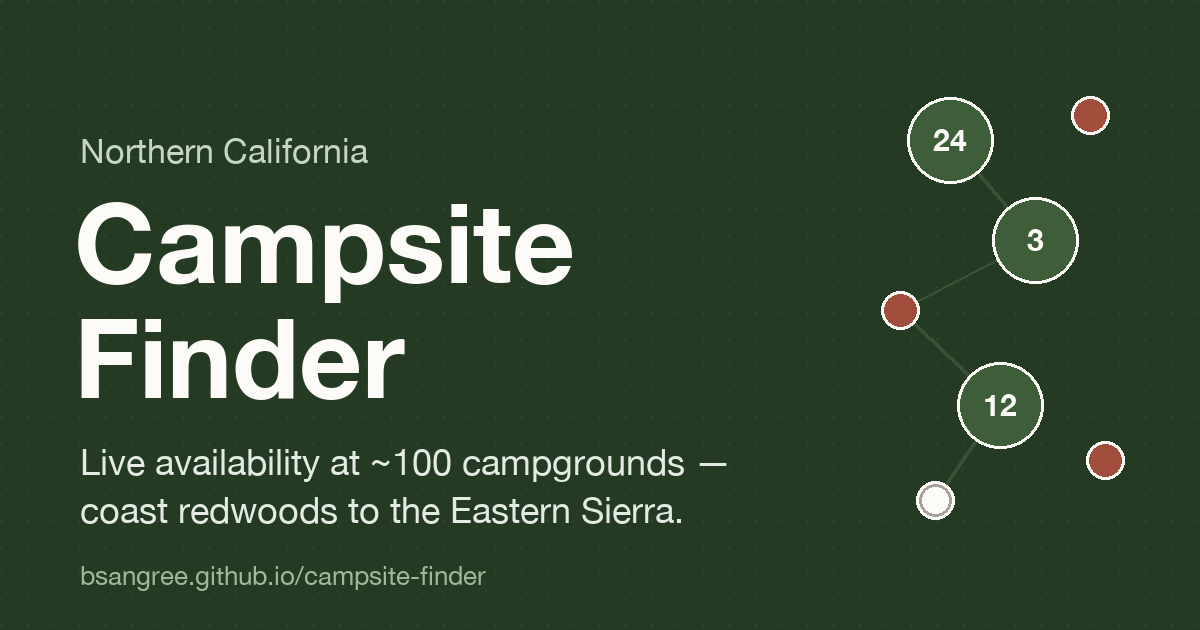
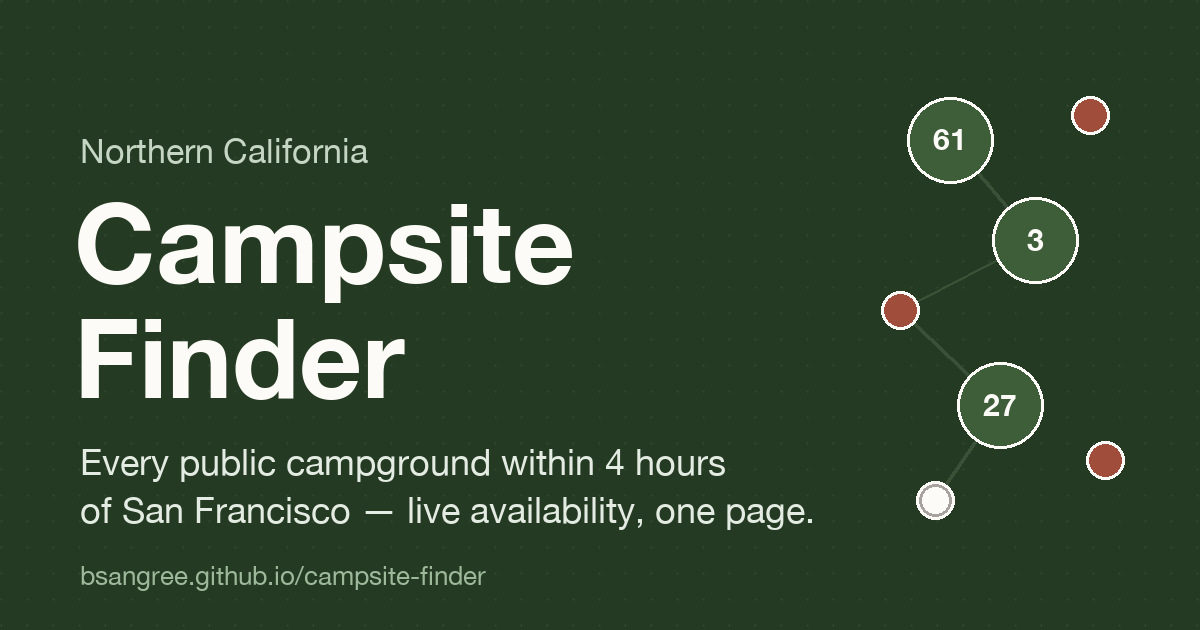
4-hour-radius completion sweep: 121 campgrounds, claim goes live
+23 parks closing every known gap inside ~4h of SF: Clear Lake, Folsom,
Oroville, Indian Grinding Rock, Colusa, Westport-Union, Tahoe SRA (RC);
Arroyo Seco, Tuttletown, Fashoda, Wrights Lake, Silver Lake East, Salmon
Creek, Kaspian, Bass Lake Forks + Lupine (rec.gov); Doran, Westside,
Stillwater Cove, Gualala Point, Coyote Lake, Laguna Seca, Lake Solano
(county, check-site). Three new county systems in SYSTEMS; 'bay' region
relabeled Bay Area & Wine Country.

Hero/OG/README/social card now carry the claim — with an honest scope
note (excludes private, utility-district, group-only, dispersed).
Recorder tracks 105 live parks.

diff --git a/index.html b/index.html
@@ -4,9 +4,9 @@
   <meta charset="utf-8" />
   <meta name="viewport" content="width=device-width, initial-scale=1" />
   <title>Bay Area Campsite Finder</title>
-  <meta name="description" content="Live availability at nearly 100 Northern California campgrounds — coast redwoods, Tahoe, Yosemite, the Eastern Sierra, Big Sur. Pick a weekend, see what's open, book it." />
+  <meta name="description" content="Every public campground within ~4 hours of San Francisco — 120+ camps from the redwood coast to Tahoe, Yosemite, and Big Sur. Live availability, one page." />
   <meta property="og:title" content="Bay Area Campsite Finder" />
-  <meta property="og:description" content="Live availability at nearly 100 Northern California campgrounds — coast redwoods, Tahoe, Yosemite, the Eastern Sierra, Big Sur. Pick a weekend, see what's open, book it." />
+  <meta property="og:description" content="Every public campground within ~4 hours of San Francisco — 120+ camps from the redwood coast to Tahoe, Yosemite, and Big Sur. Live availability, one page." />
   <meta property="og:image" content="https://bsangree.github.io/campsite-finder/social-card.png" />
   <meta property="og:url" content="https://bsangree.github.io/campsite-finder/" />
   <meta property="og:type" content="website" />
@@ -56,7 +56,7 @@
     <div class="sm:max-w-[620px]">
       <div class="text-forest-200 text-[13px] mb-0.5">Bay Area</div>
       <h1 class="text-[28px] sm:text-5xl font-semibold tracking-tight whitespace-nowrap">Campsite Finder</h1>
-      <p class="hidden sm:block text-forest-100 mt-2 max-w-xl">Live availability across nearly 100 campgrounds — coast redwoods to the Eastern Sierra. Pick a weekend, see what's open, book it.</p>
+      <p class="hidden sm:block text-forest-100 mt-2 max-w-xl">Every public campground within ~4 hours of San Francisco — plus the far North Coast, Shasta, and the Eastern Sierra. Live availability, one page.</p>
     </div>
     <div id="headerStats" class="shrink-0 text-center sm:mr-10"></div>
   </div>
@@ -123,7 +123,7 @@
           <div class="text-[13px] font-medium text-stone-500 mb-2">Region</div>
           <select id="regionSel" class="w-full h-11 bg-white border border-stone-900/10 rounded-lg px-3 text-sm">
             <option value="all">All regions</option>
-            <option value="bay">Bay Area</option>
+            <option value="bay">Bay Area &amp; Wine Country</option>
             <option value="northcoast">North Coast</option>
             <option value="shasta">Shasta &amp; Lassen</option>
             <option value="tahoe">Tahoe</option>
@@ -221,6 +221,9 @@ const SYSTEMS = {
   ebparks:    { label: "East Bay Parks" },
   scc_parks:  { label: "Santa Clara County Parks" },
   smc_parks:  { label: "San Mateo County Parks" },
+  sonoma_co:  { label: "Sonoma County Parks" },
+  monterey_co:{ label: "Monterey County Parks" },
+  solano_co:  { label: "Solano County Parks" },
 };
 
 const ENV_LABELS = {
@@ -786,6 +789,125 @@ const PARKS = [
     desc: "The classic dune camp — monarch butterflies in winter, wide sand year-round.",
     url: "https://www.reservecalifornia.com/park/691",
     lat: 35.1064, lng: -120.6271 },
+
+
+  // --- 4-hour-radius completion sweep (2026-08-01) ---
+  { id: "clear-lake", name: "Clear Lake SP", system: "reserve_ca", region: "bay",
+    drive: 135, env: ["lake", "oak_woodland"], dogs: true, rv: true, access: "drive_in", sites: 147,
+    desc: "California's oldest lake — tule shores, bass water, Mt. Konocti above.",
+    url: "https://www.reservecalifornia.com/park/628",
+    lat: 39.0111, lng: -122.8141 },
+  { id: "lake-solano", name: "Lake Solano Park", system: "solano_co", region: "bay",
+    drive: 70, env: ["lake", "oak_woodland"], dogs: true, rv: true, access: "drive_in", sites: 87,
+    desc: "Putah Creek's calm stretch below the dam — otters, resident peacocks, easy paddling.",
+    url: "https://www.solanocounty.com/depts/rm/countypark/",
+    lat: 38.488, lng: -121.996 },
+  { id: "doran-beach", name: "Doran Regional Park", system: "sonoma_co", region: "bay",
+    drive: 75, env: ["coast"], dogs: true, rv: true, access: "drive_in", sites: 128,
+    desc: "Two miles of flat sand between Bodega Bay and the harbor — the family classic.",
+    url: "https://parks.sonomacounty.ca.gov/visit/find-a-park/doran-regional-park",
+    lat: 38.3129, lng: -123.029 },
+  { id: "westside-regional", name: "Westside Regional Park", system: "sonoma_co", region: "bay",
+    drive: 75, env: ["coast"], dogs: true, rv: true, access: "drive_in", sites: 47,
+    desc: "Bodega Bay's calm-water side — crabbing docks and kayak launches.",
+    url: "https://parks.sonomacounty.ca.gov/visit/find-a-park/westside-regional-park",
+    lat: 38.318, lng: -123.055 },
+  { id: "stillwater-cove", name: "Stillwater Cove Regional Park", system: "sonoma_co", region: "bay",
+    drive: 115, env: ["coast"], dogs: true, rv: true, access: "drive_in", sites: 23,
+    desc: "A pocket cove north of Jenner — quiet sites above the kelp.",
+    url: "https://parks.sonomacounty.ca.gov/visit/find-a-park/stillwater-cove-regional-park",
+    lat: 38.5466, lng: -123.2964 },
+  { id: "coyote-lake", name: "Coyote Lake – Harvey Bear", system: "scc_parks", region: "bay",
+    drive: 75, env: ["lake", "oak_woodland"], dogs: true, rv: true, access: "drive_in", sites: 74,
+    desc: "Reservoir camp in the oak hills east of Gilroy — wintering bald eagles.",
+    url: "https://parks.santaclaracounty.gov/locations/coyote-lake-harvey-bear-ranch-county-park",
+    lat: 37.1219, lng: -121.5464 },
+  { id: "gualala-point", name: "Gualala Point Regional Park", system: "sonoma_co", region: "northcoast",
+    drive: 140, env: ["coast", "redwoods"], dogs: true, rv: true, access: "drive_in", sites: 25,
+    desc: "Redwood flat along the Gualala River, a footbridge from the beach.",
+    url: "https://parks.sonomacounty.ca.gov/visit/find-a-park/gualala-point-regional-park",
+    lat: 38.7657, lng: -123.5232 },
+  { id: "westport-union", name: "Westport-Union Landing SB", system: "reserve_ca", region: "northcoast",
+    drive: 215, env: ["coast"], dogs: true, rv: true, access: "drive_in", sites: 86,
+    desc: "Blufftop sites over a wild, empty stretch of Mendocino coast.",
+    url: "https://www.reservecalifornia.com/park/1235",
+    lat: 39.6761, lng: -123.7905 },
+  { id: "colusa", name: "Colusa-Sacramento River SRA", system: "reserve_ca", region: "shasta",
+    drive: 120, env: ["oak_woodland"], dogs: true, rv: true, access: "drive_in", sites: 20,
+    desc: "Shady riverbank camp on the Sacramento — canoe launches and salmon runs.",
+    url: "https://www.reservecalifornia.com/park/632",
+    lat: 39.2182, lng: -122.0165 },
+  { id: "lake-oroville", name: "Lake Oroville SRA — Loafer Creek", system: "reserve_ca", region: "shasta",
+    drive: 165, env: ["lake", "oak_woodland"], dogs: true, rv: true, access: "drive_in", sites: 137,
+    desc: "Above the state's tallest dam — houseboat water and bald eagles.",
+    url: "https://www.reservecalifornia.com/park/662",
+    lat: 39.5343, lng: -121.467 },
+  { id: "tahoe-sra", name: "Tahoe SRA (Tahoe City)", system: "reserve_ca", region: "tahoe",
+    drive: 205, env: ["alpine", "lake"], dogs: true, rv: true, access: "drive_in", sites: 28,
+    desc: "In-town camp — walk to the lake, coffee, and the Truckee River outlet.",
+    url: "https://www.reservecalifornia.com/park/728",
+    lat: 39.1762, lng: -120.135 },
+  { id: "kaspian", name: "Kaspian (West Shore)", system: "rec_gov", region: "tahoe",
+    drive: 210, env: ["alpine", "lake"], dogs: true, rv: false, access: "walk_in", sites: 9,
+    desc: "Tiny West Shore camp under the pines — Blackwood Canyon at your back.",
+    url: "https://www.recreation.gov/camping/campgrounds/232875",
+    lat: 39.1137, lng: -120.1587 },
+  { id: "fashoda", name: "Fashoda (Union Valley)", system: "rec_gov", region: "tahoe",
+    drive: 195, env: ["alpine", "lake"], dogs: true, rv: true, access: "drive_in", sites: 30,
+    desc: "Crystal Basin tent camp on Union Valley Reservoir's granite shore.",
+    url: "https://www.recreation.gov/camping/campgrounds/234135",
+    lat: 38.8682, lng: -120.3975 },
+  { id: "wrights-lake", name: "Wrights Lake", system: "rec_gov", region: "tahoe",
+    drive: 210, env: ["alpine", "lake"], dogs: true, rv: true, access: "drive_in", sites: 65,
+    desc: "High granite lake at 7,000 feet — canoe water, Desolation trailheads.",
+    url: "https://www.recreation.gov/camping/campgrounds/231954",
+    lat: 38.8494, lng: -120.2311 },
+  { id: "silver-lake-east", name: "Silver Lake East (Hwy 88)", system: "rec_gov", region: "tahoe",
+    drive: 210, env: ["alpine", "lake"], dogs: true, rv: true, access: "drive_in", sites: 48,
+    desc: "Carson Pass blue gem below Thunder Mountain — kayaks, islands, granite.",
+    url: "https://www.recreation.gov/camping/campgrounds/232263",
+    lat: 38.675, lng: -119.8875 },
+  { id: "salmon-creek", name: "Salmon Creek (Lakes Basin)", system: "rec_gov", region: "tahoe",
+    drive: 225, env: ["alpine", "lake"], dogs: true, rv: true, access: "drive_in", sites: 29,
+    desc: "Sierra Buttes country — a dozen alpine lakes within a morning's walk.",
+    url: "https://www.recreation.gov/camping/campgrounds/234540",
+    lat: 39.6235, lng: -120.6124 },
+  { id: "folsom-lake", name: "Folsom Lake SRA", system: "reserve_ca", region: "yosemite",
+    drive: 125, env: ["lake", "oak_woodland"], dogs: true, rv: true, access: "drive_in", sites: 169,
+    desc: "Beals Point and Peninsula camps on the foothill reservoir.",
+    url: "https://www.reservecalifornia.com/park/643",
+    lat: 38.7089, lng: -121.1704 },
+  { id: "indian-grinding-rock", name: "Indian Grinding Rock SHP", system: "reserve_ca", region: "yosemite",
+    drive: 150, env: ["oak_woodland"], dogs: true, rv: true, access: "drive_in", sites: 22,
+    desc: "Chaw'se — 1,185 bedrock mortars and a reconstructed Miwok roundhouse.",
+    url: "https://www.reservecalifornia.com/park/659",
+    lat: 38.4256, lng: -120.64 },
+  { id: "tuttletown", name: "Tuttletown (New Melones)", system: "rec_gov", region: "yosemite",
+    drive: 165, env: ["lake", "oak_woodland"], dogs: true, rv: true, access: "drive_in", sites: 163,
+    desc: "New Melones' quieter shore — paddling coves and oak shade.",
+    url: "https://www.recreation.gov/camping/campgrounds/234072",
+    lat: 37.9839, lng: -120.5081 },
+  { id: "arroyo-seco", name: "Arroyo Seco (Los Padres)", system: "rec_gov", region: "central",
+    drive: 165, env: ["oak_woodland", "chaparral"], dogs: true, rv: true, access: "drive_in", sites: 39,
+    desc: "Gorge-mouth camp on the wild Arroyo Seco — deep green swimming holes.",
+    url: "https://www.recreation.gov/camping/campgrounds/231958",
+    lat: 36.2397, lng: -121.4786 },
+  { id: "laguna-seca", name: "Laguna Seca Recreation Area", system: "monterey_co", region: "central",
+    drive: 130, env: ["oak_woodland", "grassland"], dogs: true, rv: true, access: "drive_in", sites: 98,
+    desc: "Oak-hill camp ringing the famous raceway — quiet except race weekends.",
+    url: "https://www.countyofmonterey.gov/government/departments-i-z/parks",
+    lat: 36.5841, lng: -121.753 },
+
+  { id: "forks-bass-lake", name: "Forks (Bass Lake)", system: "rec_gov", region: "yosemite",
+    drive: 230, env: ["lake"], dogs: true, rv: true, access: "drive_in", sites: 26,
+    desc: "Bass Lake's classic camp near the Forks — warm-water swimming, Yosemite 30 min up the hill.",
+    url: "https://www.recreation.gov/camping/campgrounds/232878",
+    lat: 37.3127, lng: -119.57 },
+  { id: "lupine-bass-lake", name: "Lupine (Bass Lake)", system: "rec_gov", region: "yosemite",
+    drive: 230, env: ["lake"], dogs: true, rv: true, access: "drive_in", sites: 51,
+    desc: "Shoreline pines on Bass Lake's south side — paddleboard water all summer.",
+    url: "https://www.recreation.gov/camping/campgrounds/232802",
+    lat: 37.3095, lng: -119.5472 },
 
 ];
 

diff --git a/scripts/poll.py b/scripts/poll.py
@@ -79,6 +79,22 @@ PARKS = [
     ("morro-bay", "rc", 680),
     ("san-simeon", "rc", 713),
     ("pismo", "rc", 691),
+    # --- 4h-radius sweep ---
+    ("clear-lake", "rc", 628),
+    ("westport-union", "rc", 1235),
+    ("colusa", "rc", 632),
+    ("lake-oroville", "rc", 662),
+    ("tahoe-sra", "rc", 728),
+    ("kaspian", "rg", 232875),
+    ("fashoda", "rg", 234135),
+    ("wrights-lake", "rg", 231954),
+    ("silver-lake-east", "rg", 232263),
+    ("salmon-creek", "rg", 234540),
+    ("folsom-lake", "rc", 643),
+    ("indian-grinding-rock", "rc", 659),
+    ("tuttletown", "rg", 234072),
+    ("arroyo-seco", "rg", 231958),,
+    ("forks-bass-lake", "rg", 232878), ("lupine-bass-lake", "rg", 232802)
 ]
 
 def http_json(url, payload=None, timeout=15):

diff --git a/README.md b/README.md
@@ -4,11 +4,18 @@
 
 ![Bay Area Campsite Finder](social-card.png)
 
-One page that answers "where can I camp this weekend?" — live availability across
-nearly 100 Northern California campgrounds, from the coast redwoods to Tahoe, Yosemite,
-the Eastern Sierra, and Big Sur — in the one place the official sites don't offer:
-side by side. Filter by region, drive time, environment; watch the hard ones (Whitney
-Portal, Yosemite Valley) and get a push notification when they open.
+One page that answers "where can I camp this weekend?" — **every public campground
+within ~4 hours of San Francisco** (121 and counting), plus the far North Coast,
+Shasta, and the Eastern Sierra beyond. Live availability side by side, the one view
+the official sites don't offer. Filter by region, drive time, environment; watch the
+hard ones (Whitney Portal, Yosemite Valley) and get a push notification when they open.
+
+**Scope, honestly:** "every public campground" means individually reservable, drive-in
+or walk-in car camping run by state, county, or federal agencies. Not included:
+private campgrounds and resorts (Lawson's Landing, Costanoa, KOAs, Big Sur's private
+camps), utility-district lakes (Sly Park/EID, Camanche & Pardee/EBMUD, PG&E camps),
+group-only and boat-in sites, and dispersed/non-reservable Forest Service spots.
+Spot a public campground that's missing? Open an issue.
 
 - **List view** — every campground with a live open-site count for your dates
 - **Map view** — the same thing on a topo map: green = open (with count), rust = full

diff --git a/CLAUDE.md b/CLAUDE.md
@@ -10,7 +10,10 @@ explain things plainly, keep everything as simple as possible, never over-engine
 ## Architecture (deliberate choices — don't "upgrade" without asking)
 
 - **One file: `index.html`.** No framework, no build, no backend, no database.
-  Park data is the `PARKS` array inside the file (98 campgrounds as of 2026-08-01,
+  Park data is the `PARKS` array inside the file (121 campgrounds as of 2026-08-01 —
+  the claim is "every public campground within ~4h of SF" (see README scope note:
+  excludes private/utility-district/group-only/dispersed); keep the claim true when
+  adding or hearing about missing parks.
   spanning 7 `region` values: bay / northcoast / shasta / tahoe / yosemite / eastside /
   central — the Region filter is load-bearing at this scale; grid + availability
   fetches respect it).
